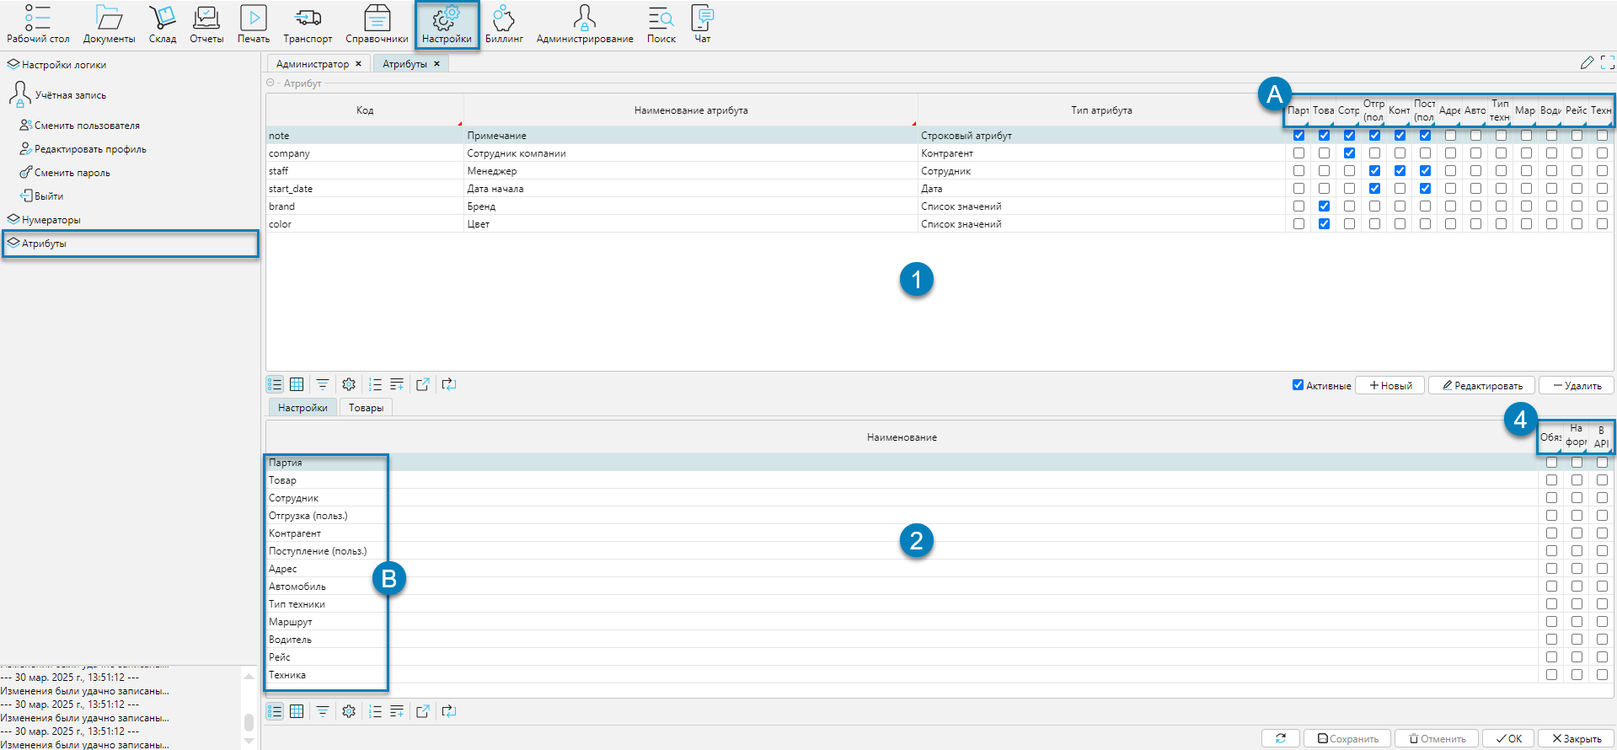
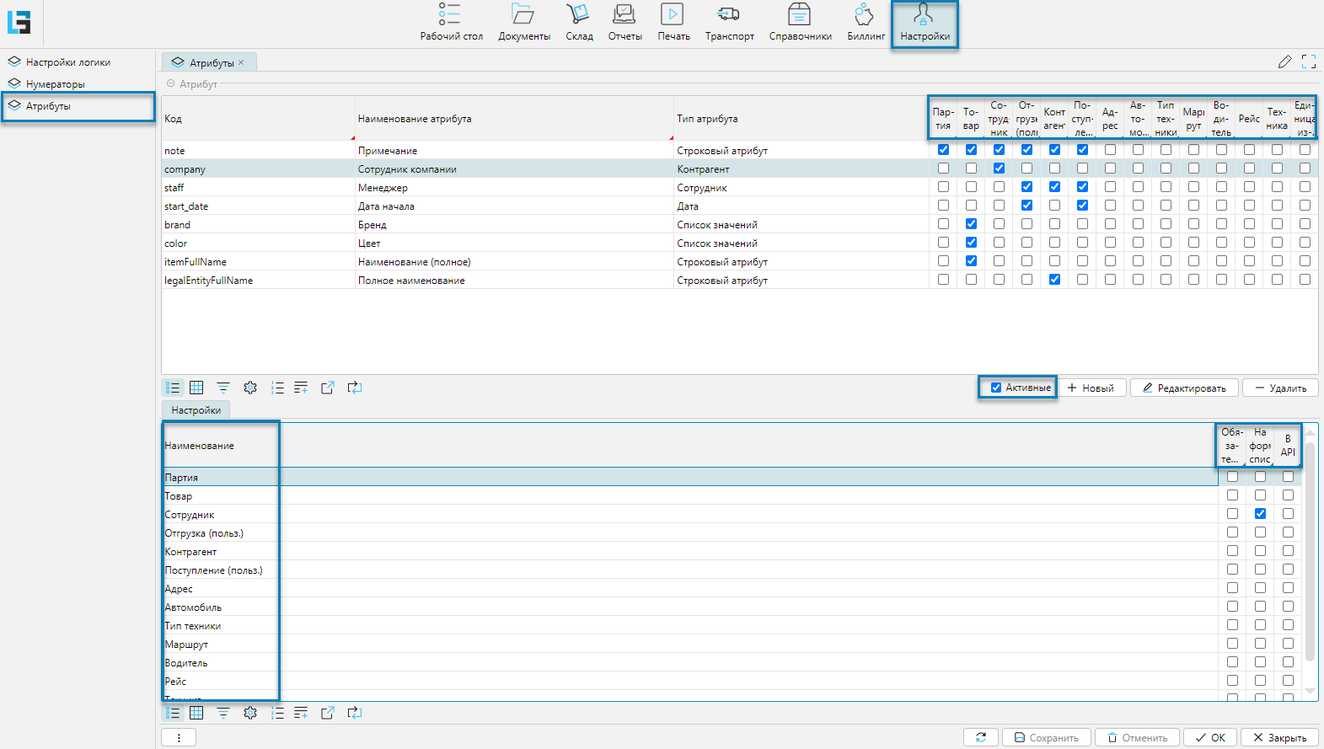
Документация

diff --git a/src/css/custom.css b/src/css/custom.css
@@ -106,3 +106,8 @@ warning {
 warning::before {
   content: var(--warning-header-content);
 }
+
+/* Полностью регулирует отступы перед списком */
+p + ul, p + ol {
+  margin-top: -1rem;
+}

diff --git a/docs/masterdata/attributes.md b/docs/masterdata/attributes.md
@@ -1,20 +1,188 @@
 ---
-title: 'Атрибуты' 
+title: 'Атрибуты'
 ---
 
-Предугадать все дополнительные свойства, которые могут потребоваться для различных объектов внутри lsFusion WMS, заранее
-невозможно. Поэтому в системе предусмотрен универсальный механизм атрибутов, который позволяет пользователю
-самостоятельно, без привлечения разработчиков, добавлять нужные свойства, тем самым расширяя функциональность системы.
+Механизм атрибутов позволяет пользователю без необходимости обращения к разработчикам самостоятельно добавлять
+нужные свойства для разных объектов.
 
 Справочник доступен из меню **Настройки-Атрибуты** (Рис. 1)<br/>
+
 
 ## Отображение справочника
 
 ![](img/attributes1.png)<br/>
-Рис. 1 Форма отображения справочника
+_Рис. 1 Форма отображения справочника_
 
-Структурно форма состоит из 2-х табличных частей:
-1. Список атрибутов (Рис. 1(1)) и колонки объектов (Рис. 1(A)), где атрибуты используются
-2. Список объектов (Рис.1(B)) и условия использования атрибутов (Рис. 1(4)), колонки: Обязательный, На форме списка, В API
+Структурно форма состоит из 2-х табличных частей.
+Верхняя табличная часть отражает:
 
-[//]: # (todo - Зачем вкладка товары?)
+- список добавленных атрибутов, которые редактируются отдельной формой
+- колонки объектов, для которых эти атрибуты могут быть заданы. При этом закрепление атрибутов за
+  объектами производится непосредственно в табличной части установкой соответствующего флажка.
+
+Нижняя табличная часть (вкладка **Настройки**) отражает, связанные с атрибутами верхней части:
+
+- список объектов, который совпадает по количеству с колонками верхней табличной части формы
+- список дополнительных настроек атрибута, которые редактируются непосредственно в табличной части установкой нужных
+  флажков:
+    - **Обязательный** - если флажок установлен, а значение атрибута при редактировании объекта оказалось не заполнено,
+      то сработает контроль, который не даст сохранить результаты редактирования объекта.
+      <tip>
+        - Контроль действует для всех новых записей создаваемых после создания атрибута
+        - Если флаг был назначен ранее, а потом атрибут был отменен для использования (колонки верхней части). То
+          повторное назначение атрибута, должно происходить в два этапа: убрать флаг **Обязательный** и сохранить
+          данные.
+          Затем назначить атрибут и установить дополнительные настройки.  
+      </tip>
+    - **На форме списка** - если флаг установлен, то атрибут будет присутствовать на форме списка. Если флаг не
+      установлен, то атрибут будет доступен только на формах редактирования объекта и, например в отчетах.
+    - **В API** - если флаг установлен, то атрибут будет участвовать в GET и POST запросах при работе
+      с [API](../intro/terminology.md#общие)
+
+При установке в колонке **Товар** (Рис. 1, верхняя табличная часть формы) флажка напротив кого либо из атрибутов, в 
+нижней табличной части автоматически появляется вкладка **Товары**: 
+
+![](img/attributes2.png)<br/>
+_Рис. 2 Вкладка Товары_
+
+Используя возможности, представляемые вкладкой, можно связать текущий атрибут:
+- со всеми товарными категориями, установив флаг **Все категории**
+- установить привязку к отдельным товарным категориям, установив флаг **Вкл.** напротив нужной категории. При этом 
+  разные атрибуты будут доступны в карточке товара для своей товарной категории. 
+
+<tip>
+    Для примера можно привести использование разных атрибутов для разных товарных категорий: 
+    - для электробытовых приборов могут быть интересны атрибуты модель устройства, тип питания от аккумуляторов или 
+      сети, мощность, энергопотребление, материал корпуса  
+    - для одежды могут быть интересны атрибуты, такие как бренд, материал изготовления, сезон года, пол     
+</tip>
+
+## Редактирование атрибута
+
+Редактирование начинается с формы выбора типа атрибута:
+
+![](img/attributes3.png)<br/>
+_Рис. 3 Форма выбора типа атрибута_
+
+Выбор из списка типа атрибута необходим, так как каждый из типов имеет свои индивидуальные формы редактирования. При
+этом у всех атрибутов присутствуют три одинаковых свойства, два из которых обязательны для заполнения:
+
+![](img/attributes4.png)<br/>
+_Рис. 4 Общая форма редактирования атрибута_
+
+Элементы ввода:
+- **Код** - уникальный код, представляющий собой идентификатор, который начинается с символа и может
+  включать латинских буквы, цифры, знак подчеркивания. **Примечание:** если код не уникальный, то система не даст
+  сохранить результаты редактирования
+- **Наименование** - подсказка при выводе атрибута в формах списка и редактирования
+- **Выкл.** - если флаг установлен, то атрибут становится неактивным для использования. При установке флага и 
+  сохранении данных атрибут исчезнет из табличной части списка атрибутов, так как на форме постоянно действует фильтр 
+  **Активные** ([Рис. 1](attributes.md#отображение-справочника)), который влияет на вывод только активных атрибутов 
+  или всех (активных и не активных, если фильтр отключен). 
+
+
+### Тип Сотрудник
+Позволяет создать атрибут, связанный со справочником контрагентов. Редактирование атрибута будет вызывать форму 
+списка справочника контрагентов для выбора нужного значения. 
+
+![](img/attributes5.png)<br/>
+_Рис. 5 Форма редактирования Тип Сотрудник_
+
+На рисунке 6 приводится пример заполнения атрибута **Сотрудник компании** при редактировании справочника сотрудников:
+![](img/attributes6.png)<br/>
+_Рис 6. Пример заполнения атрибута_
+***
+
+### Тип Дата
+Можно задать атрибуты с типом Дата для ввода даты
+
+![](img/attributes7.png)<br/>
+_Рис. 7 Форма редактирования Тип Дата_
+
+При назначении атрибута ему можно задать ограничения - контроль вводимых данных: 
+- от текущей даты не больше и(или) не меньше на количество дней
+- или задать фиксированные значения дат в диапазоне не больше и(или) не меньше  
+
+Для примера на рисунке внесены ограничения, что **Дата начала** не может быть меньше даты 03.04.2025 (например, дата 
+начала работы) и не может быть старше от текущей даты более, чем на 3 дня.
+
+При заполнении реквизита можно ввести формат даты вручную или вызывать календарь.
+***
+
+### Тип Список значений
+Позволяет создать атрибут, связанный с некоторым набором значений. Редактирование атрибута будет вызывать 
+форму списка для выбора нужного значения, по принципу действия аналогично [Типу Сотрудник](attributes.md#тип-сотрудник).
+
+![](img/attributes8.png)<br/>
+_Рис. 8 Форма редактирования Тип Список значений_
+
+Элементы ввода:
+- **Значение по умолчанию** - значение, на котором в списке будет установлен курсор, если значение редактируемого 
+  атрибута пустое  
+- **Значение атрибута** - табличная часть, которая содержит 2 колонки:
+    - **Код** - уникальный код, представляющий собой идентификатор, который начинается с символа и может включать 
+      латинских буквы, цифры, знак подчеркивания. Примечание: если код не уникальный, то система не даст сохранить 
+      результаты редактирования  
+    - **Значение** - значение атрибута, видимое значение доступное из формы списка при редактировании атрибута
+
+Для примера введен список цветов. По легенде существует необходимость вводить цвет товара. Выбор из списка исключает 
+человеческий фактор в написании цветов: разный стиль написания, ошибки. Аналогично можно задавать торговые бренды, 
+виды одежды, типы материалов и так далее.  
+***  
+
+### Тип Целое число
+Позволят вводить целые числа. Дополнительно можно задавать ограничения на ввод вводимых значений.
+
+![](img/attributes9.png)<br/>
+_Рис. 9 Форма редактирования Тип Целое число_
+
+Элементы ввода:
+- **Не меньше** - нижнее ограничение
+- **Не больше** - верхнее ограничение
+
+Для примера атрибут Диаметр отражает диаметр сверл по бетону. Добавлено ограничение, что диаметр сверла не может 
+быть меньше 3 мм и не должен превышать 32 мм.
+***
+
+
+### Тип Число
+Позволят вводить дробные числа. Дополнительно можно задавать ограничения на ввод вводимых значений.
+
+![](img/attributes10.png)<br/>
+_Рис. 10 Форма редактирования Тип Число_
+
+Элементы ввода:
+- **Точность** - общее количество цифр в числе до запятой (точки)
+- **Масштаб** - количество цифр после запятой (точки) 
+- **Не меньше** - нижнее ограничение
+- **Не больше** - верхнее ограничение
+
+По легенде, для товара «листовой металл» введён атрибут «Толщина металла», который может быть как целым, так и 
+дробным значением с точностью до десятых миллиметра. Задано ограничение на толщину: от 0.5 мм до 11 мм. 
+***
+
+
+### Тип Контрагент
+Позволяет создать атрибут, связанный со справочником контрагентов. Редактирование атрибута будет вызывать форму 
+списка справочника контрагентов для выбора нужного значения. По принципу действия аналогично  
+[Типу Сотрудник](attributes.md#тип-сотрудник).
+
+![](img/attributes11.png)<br/>
+_Рис. 11 Форма редактирования Тип Контрагент_
+***
+
+
+### Тип Строка
+Позволяет создать атрибут для ввода символьных значений. 
+
+![](img/attributes12.png)<br/>
+_Рис. 12 Форма редактирования Тип Строка_
+
+Элементы ввода:
+- **Шаблон (regex)** - шаблон регулярного выражения. Использование регулярных выражений позволяет задать необходимые 
+  ограничения на ввод информации. Например: строка содержит только цифры, ввод e-mail, ввод интернет адреса, ввод 
+  телефона в международном стандарте и так далее. Синтаксис и примеры регулярных выражений можно найти в интернет.
+
+[//]: # (todo - 1. Отображение на форме)
+[//]: # (todo - Не совсем понятна разница между Тип Сотрудник и Тип Контрагент)
+[//]: # (todo - Заголовок при редактировании типа Число такой же, как и у Целое число)

diff --git a/docs/note/rule.md b/docs/note/rule.md
@@ -7,7 +7,8 @@ title: 'Правила написания руководства'
 - Если раздел не связан с навигатором, то в качестве имени MD файла выбирается любое доступное имя, соответствующее
   описанию раздела
 - Текст должен находится в зоне видимости экрана. Не допускается уход текста за границы экрана, так как это нарушает
-  читаемость текста. Форматирование текста возможно по CTRL+ALT+L или вручную по знакам препинания или пробелу
+  читаемость текста. Форматирование текста возможно вручную по знакам препинания или пробелу, настройками в Idea на 
+  автоматический перенос или по CTRL+ALT+L
 - Обильное наличие скриншотов - не сама цель, есть описание, можно вызвать реальное отображение и посмотреть,
   но каждому разделу как минимум должен соответствовать один рисунок, что бы представлять общий вид. **Важным** является
   детальное описание функционала
@@ -32,7 +33,7 @@ title: 'Правила написания руководства'
 - Требует внимания
 </warning>
 Всегда все пункты идут, как список, даже если элементов в списке один
-- Подпись картинки - прямая (не жирная и не курсив)
+- Подпись картинки - курсив, для отделения наименования скриншота от текста идущего за наименованием
 - Если описание разделов неполное и что-либо надо доделать, то в нужном месте доработки разработчиком пишется TODO:  
 
   [//]: # (todo - этот текст приводится для примера: требуется доработка)
@@ -53,20 +54,20 @@ title: 'Правила написания руководства'
 ## Форма отображения справочника
 
 Ссылка на рисунок<br/> 
-Рис. 1 Форма отображения справочника<br/>
+_Рис. 1 Форма отображения справочника<br/>_
 Дополнительные сведения о форме, например фильтры, кнопка печать
 
 
 ## Форма редактирования справочника
 
 Ссылка на рисунок<br/>
-Рис. 2 Форма редактирования справочника<br/>
+_Рис. 2 Форма редактирования справочника<br/>_
 
 ### Вкладка Название вкладки 1
 Краткое описание вкладки: отображает, предназначена и т.д.
 
 Ссылка на рисунок<br/>
-Рис. 3 Вкладка Название вкладки 1<br/>
+_Рис. 3 Вкладка Название вкладки 1<br/>_
 
 Более детальное описание элементов вкладки
 ***
@@ -75,7 +76,7 @@ title: 'Правила написания руководства'
 Краткое описание вкладки: отображает, предназначена и т.д.
 
 Ссылка на рисунок<br/>
-Рис. N Вкладка Название вкладки N<br/>
+_Рис. N Вкладка Название вкладки N<br/>_
 
 Более детальное описание элементов вкладки
 

diff --git a/docs/intro/terminology.md b/docs/intro/terminology.md
@@ -9,6 +9,11 @@ title: 'Терминология'
 - **WMS** - Warehouse Management System, платформа для управления складскими операциями, учёта товаров и автоматизации
   процессов
 - **Система** - решение lsFusion WMS, обеспечивающее эффективное управление складом
+- **API** - Application Programming Interface (Интерфейс прикладного программирования) - это набор правил и 
+  механизмов системы, который позволяет взаимодействовать с другими программами. В системе реализованы механизмы 
+  REST API 
+- **GET** - название WEB-метода, используемого для запроса и получения данных с сервера системы
+- **POST** - название WEB-метода, используемого для отправки данных на сервер системы
 
 ## Люди
 - **Роль** - логическая сущность, представляющая совокупность прав доступа, предназначенных для выполнения определённых

diff --git a/docs/note/task.md b/docs/note/task.md
@@ -18,10 +18,10 @@ title: 'Задачи и материалы'
     - [30962](http://support.luxsoft.by/issues/30962), 04.03.2025, Справочник склады
     - [30963](http://support.luxsoft.by/issues/30963), 04.03.2025, Справочник сегменты склада
     - [31027](http://support.luxsoft.by/issues/31027), 10.03.2025, Подсистема печати
+    - [31308](http://support.luxsoft.by/issues/31308), 28.03.2025, Справочник атрибутов
 - В работе
-    - [31308](http://support.luxsoft.by/issues/31308), 28.03.2025, Справочник атрибутов  
-- Назначенные
     - [30964](http://support.luxsoft.by/issues/30964), 04.03.2025, Топология
+- Назначенные
 
 ## Ссылки на материалы
 - [Материалы презентаций клиентам, Redmine](http://support.luxsoft.by/projects/lswms/wiki/%D0%9C%D0%B0%D1%82%D0%B5%D1%80%D0%B8%D0%B0%D0%BB%D1%8B_%D0%BF%D1%80%D0%B5%D0%B7%D0%B5%D0%BD%D1%82%D0%B0%D1%86%D0%B8%D0%B9)

diff --git a/docs/masterdata/referenceemployees.md b/docs/masterdata/referenceemployees.md
@@ -139,8 +139,8 @@ title: 'Справочник сотрудников'
 ![](img/referenceemployees10.png)<br/>
 Рис. 10 Вкладка Атрибуты
 
-Атрибут - это дополнительная характеристика, расширяющая описание редактируемого объекта, в данном контексте - справочника Сотрудников.
-Настройка атрибутов выполняется в разделе [Настройки - Атрибуты](attributes.md).
+Атрибут - это дополнительная характеристика, расширяющая описание редактируемого объекта, в данном контексте - 
+справочника Сотрудников. Настройка атрибутов выполняется в разделе [Настройки - Атрибуты](attributes.md).
 ***
 
 ### Вкладка Разрешения
